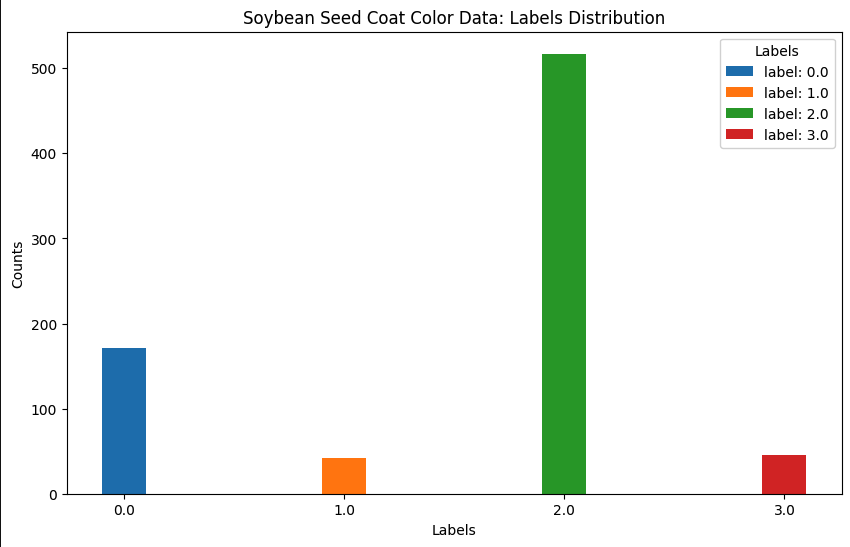
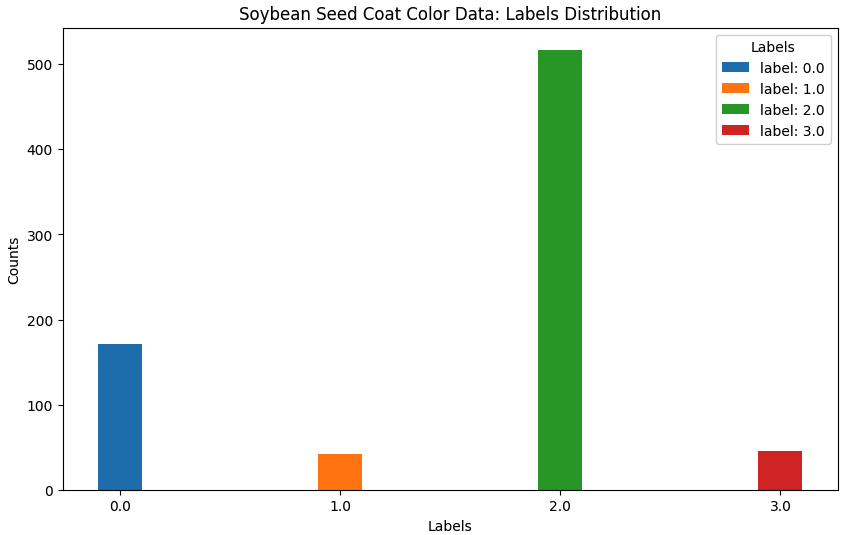
fix imaging sizing some more

diff --git a/pages/problem.html b/pages/problem.html
@@ -406,7 +406,7 @@
 								</ul>
 								<br>
 								<p>
-									<img src="../images/federated membership inference attack problem design.png" height="450">
+									<img src="../images/federated membership inference attack problem design.png" height="500">
 								</p>
 			
 								You can use the relevant and external records, combined with predictions from the client model, to train a separate attack for each 
@@ -445,7 +445,7 @@
 								for which client it belongs to: 1, 2, 3, 4 or 0 for none.
 									
 								<br><br>
-								<img src="../images/example-submission-file.png" height="160">
+								<img src="../images/example-submission-file.png" height="200">
 									
 								<br><br>
 								We’ll also ask you for any references (papers, libraries, etc) relevant to your submission, a short description of your approach, an 
@@ -613,7 +613,7 @@
 								The columns in the data have been reduced to gene variants relevant for this task.The overall distribution of dog breed group labels in the population as a whole looks like this:  
 								
 								<br><br>
-								<img src="../images/DogBreedLabelDistribution.png" height="450">
+								<img src="../images/DogBreedLabelDistribution.png" height="500">
 								
 								<br><br>
 								Look below for an example of gene variant data.  Each column represents a gene, and the value of the column indicates 
